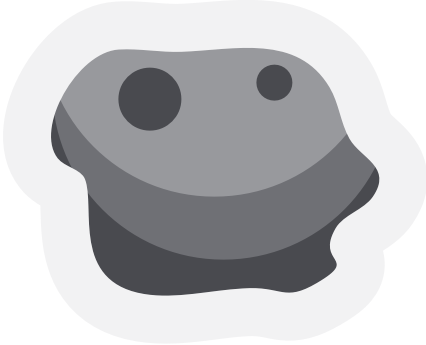
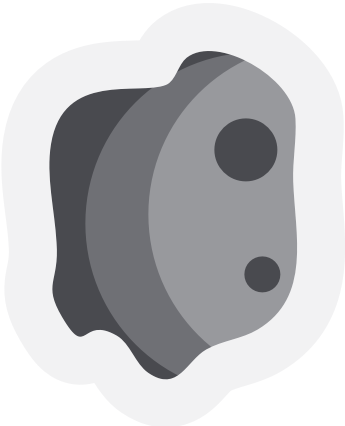
Rotated asteroids to match pathfinding

diff --git a/app/src/bham/bioshock/client/screens/GameBoardScreen.java b/app/src/bham/bioshock/client/screens/GameBoardScreen.java
@@ -235,7 +235,7 @@ public class GameBoardScreen extends ScreenMaster implements InputProcessor {
             s.setSize(PPS * 3, PPS * 3);
         }
         for (Sprite s : asteroidSprites) {
-            s.setSize(PPS * 4, PPS * 3);
+            s.setSize(PPS * 3, PPS * 4);
         }
         for (Sprite s : playerSprites) {
             s.setSize(PPS * 1, PPS * 1);
@@ -372,6 +372,7 @@ public class GameBoardScreen extends ScreenMaster implements InputProcessor {
         if (clickCoords.x >= player.getCoordinates().getX() * PPS && clickCoords.x <= (player.getCoordinates().getX() + 1) * PPS) {
             if (clickCoords.y >= player.getCoordinates().getY() * PPS && clickCoords.y <= (player.getCoordinates().getY() + 1) * PPS) {
                 playerSelected = true;
+                path = new ArrayList<>();
             }
         }
         return false;
